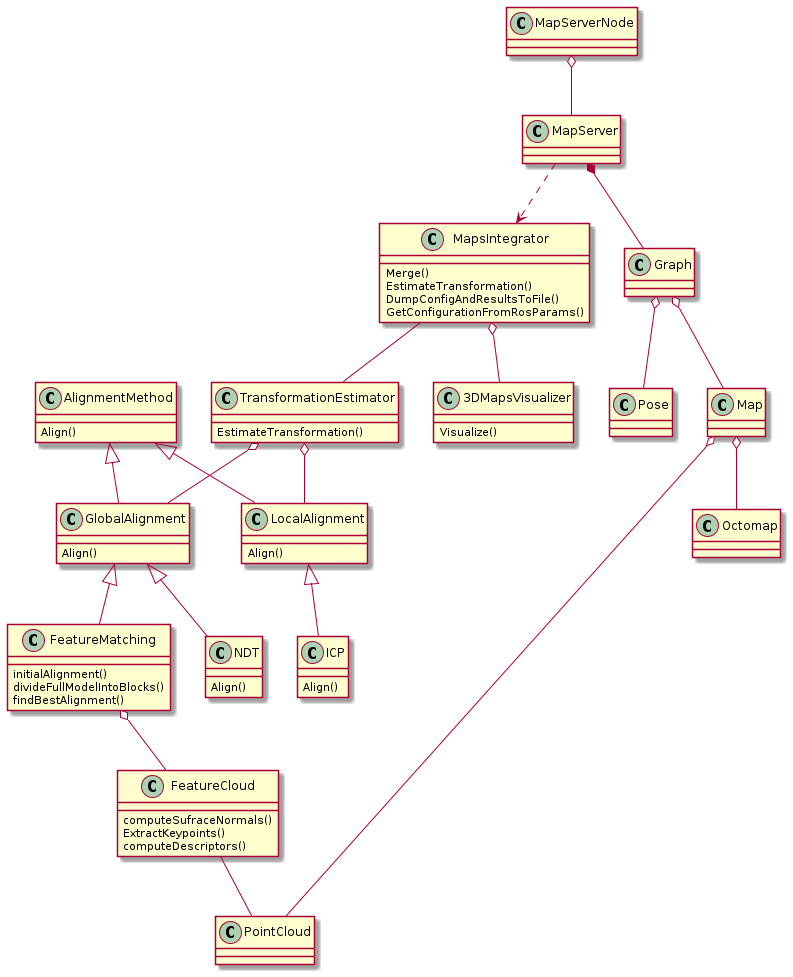
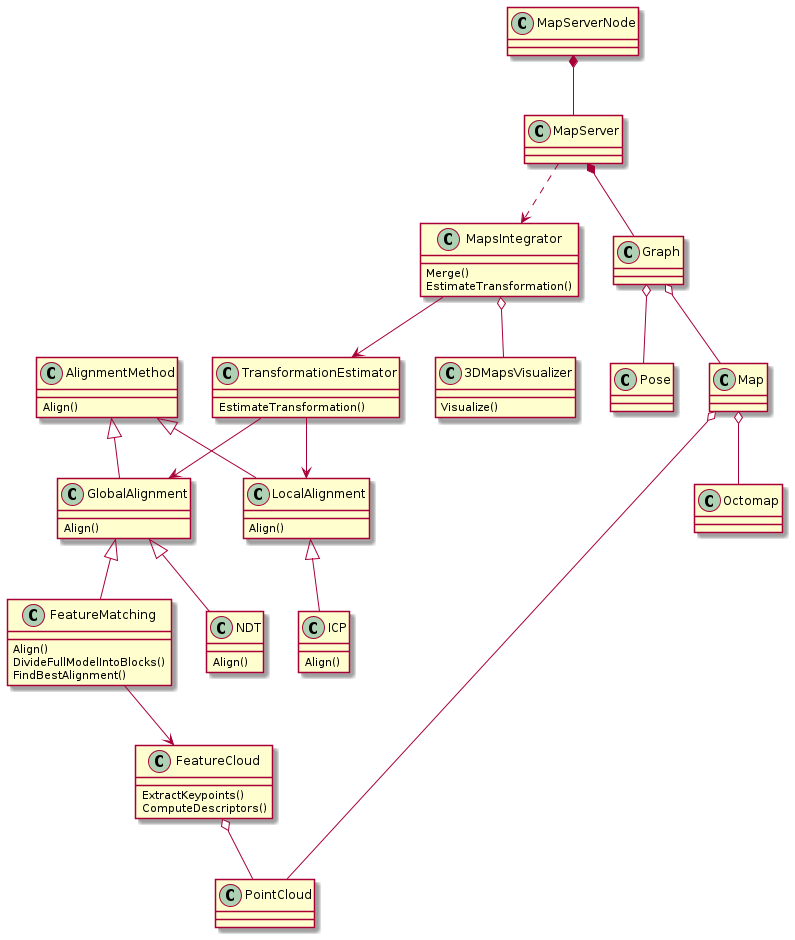
README and design update

diff --git a/README.md b/README.md
@@ -10,6 +10,11 @@ Main features of the 3D map server:
 
 It's still on an early stage of the development.
 
+## Design
+
+![Class Diagram](design/class_diagram.png)
+Not fully implemented design.
+
 ## Compilation
 
 - Clone repository to the ROS workspace (e.g. ros_ws/src)
